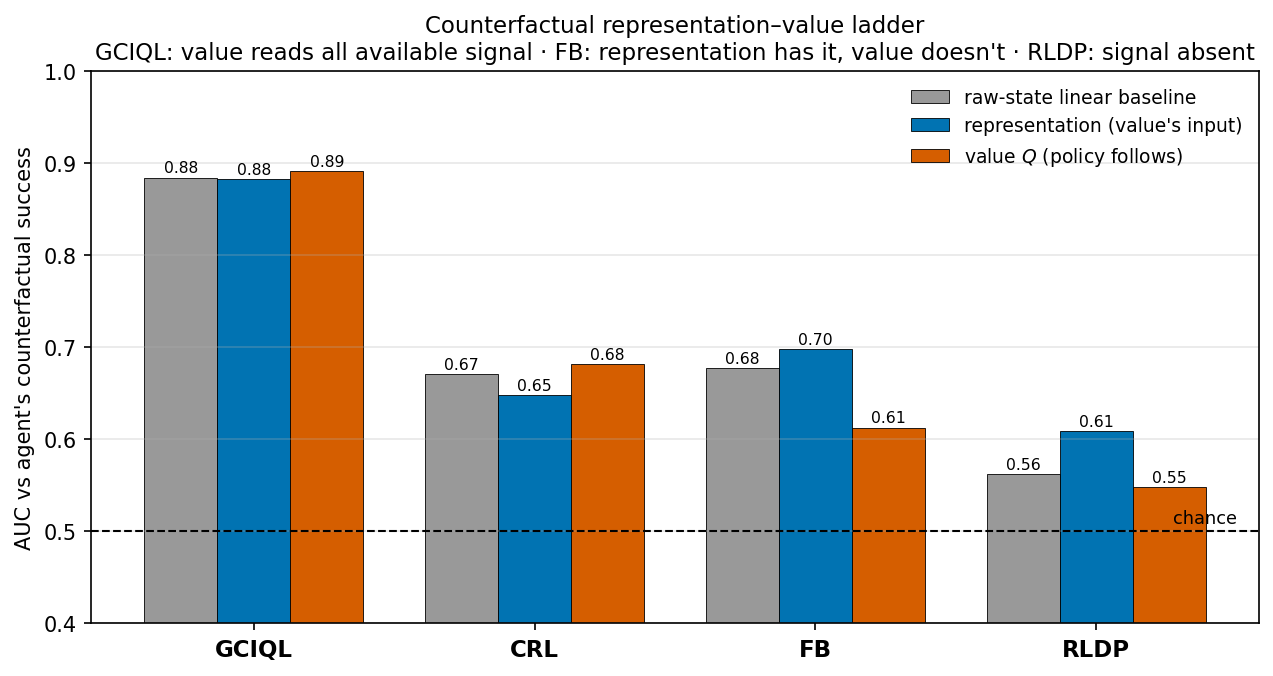
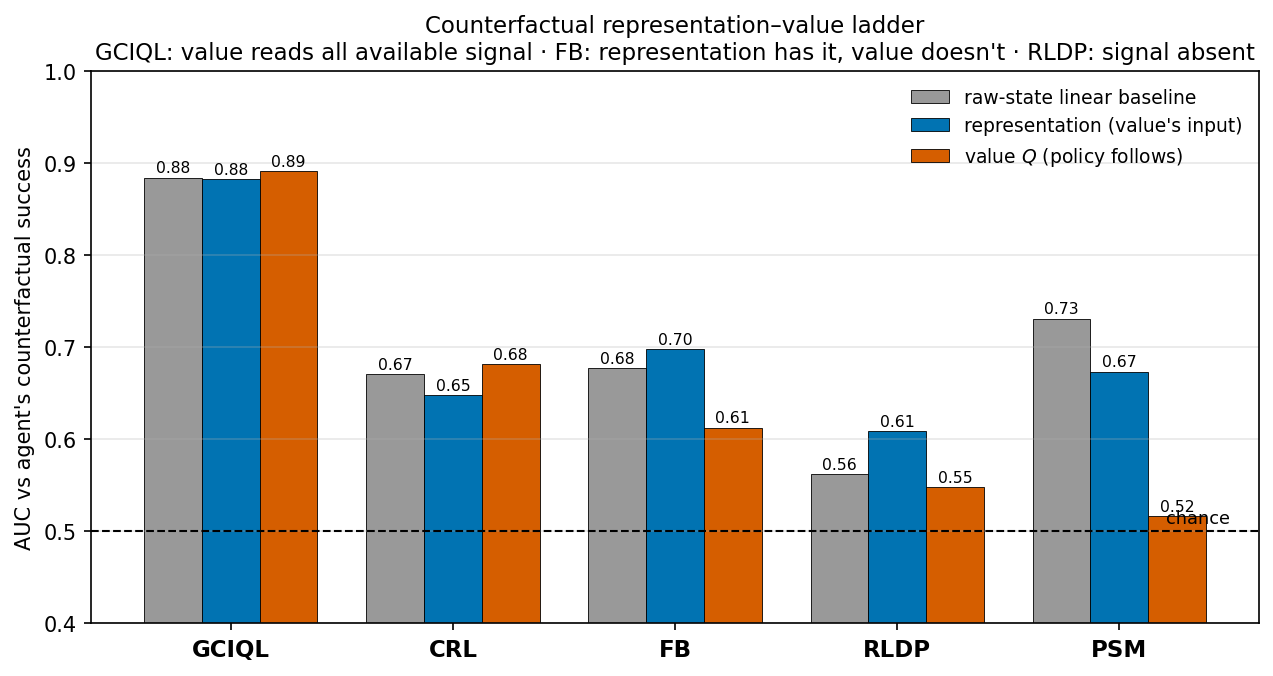
paper(rlbrew): add PSM to the counterfactual representation-value ladder
PSM was absent from fig_cf_ladder (the plot hardcoded 4 methods). Computed its
ladder from the ortho_coef=1000 (canonical) checkpoint + counterfactual records.

Result (raw / representation-readout / value-AUC): PSM 0.73 / 0.67 / 0.52.
This CORRECTED a wrong claim: an earlier draft called PSM the "sharpest readout
bottleneck" (inferred from its geometry R^2=0.90), but the ladder shows the
representation readout (0.67) does NOT exceed the raw baseline (0.73) -- PSM's
representation does not encode controllability despite resolving cube-goal
geometry best, and its value ranks near chance (0.52). Text + caption rewritten
to the geometry != controllability point.

repsep_forward_probe.py: phi/B_rep/F_rep were hardcoded to FB's
_left_encoder/backward_map/forward_map; added PSM fallbacks
(_fw_encoder/_bw_encoder/sf_psi) -- F_rep->sf_psi is the value's input rep.
plot_cf_ladder.py: METHODS += psm.

Changed region(s): [[0.1225, 0.2175, 0.9804, 0.9941]]

diff --git a/PAPER/rlbrew/content/results.tex b/PAPER/rlbrew/content/results.tex
@@ -3,17 +3,17 @@
 
 Our experiments test the interaction-state hypothesis from Section~\ref{sec:theory}.
 The evaluated methods rarely fail during approach; most performance differences arise after control has been acquired.
-We then ask whether this pattern is explained by state-space support and whether learned scores distinguish acquired-control states with different task outcomes.
+We then ask whether this pattern is explained by state-space support and whether learned values distinguish acquired-control states with different task outcomes.
 These diagnostics identify where policies fail and whether learned values preserve the interaction-state distinctions needed for control, but they are not designed to isolate a single architectural cause.
-Per-task success, exact counts, and the full diagnostic tables are in Appendix~\ref{app:tables}.
+Per-goal success, exact counts, and the full diagnostic tables are in Appendix~\ref{app:tables}.
 
 \subsection{Aggregate success obscures where policies fail}
 
 Aggregate state-based success ranks the methods but says nothing about where they fail. 
-Across $10$ evaluation seeds, the overall interquartile mean (IQM)~\citep{agarwal-neurips21a} success rates are \gciql{} ($71.8 \pm 4.1$), \fb{} ($52.0 \pm 5.5$), \psm{} ($36.7 \pm 4.5$), \crl{} ($25.8 \pm 2.3$), and \rldp{} ($22.7 \pm 6.0$).\protect\footnotemark{}
+Across $10$ evaluation seeds, the overall inter-quartile mean (IQM)~\citep{agarwal-neurips21a} success rates are \gciql{} ($71.8 \pm 4.1$), \fb{} ($52.0 \pm 5.5$), \psm{} ($36.7 \pm 4.5$), \crl{} ($25.8 \pm 2.3$), and \rldp{} ($22.7 \pm 6.0$).\protect\footnotemark{}
 \footnotetext{Aggregate success uses the stochastic evaluation policy and is summarized by IQM over seeds; the phase decomposition uses deterministic closed-loop rollouts, so per-method success differs slightly between the two analyses. We report each metric consistently within its corresponding analysis.}
 
-The rollout-stage decomposition in Section~\ref{sec:method} localizes where the methods fail (Figures~\ref{fig:funnel} and \ref{fig:outcomes}).
+The phase decomposition in Section~\ref{sec:method} localizes where the methods fail (Figures~\ref{fig:funnel} and \ref{fig:outcomes}).
 Every method almost always completes the approach phase, and most rollouts satisfy the control-acquisition criterion.
 The largest differences arise afterward, in maintain-control and transport failures.
 
@@ -27,7 +27,7 @@ Because the phase labels are computed only from simulator states, the same analy
 \centering
 \begin{minipage}[t]{0.48\linewidth}
   \centering
-  \includegraphics[width=\linewidth]{fig_funnel.png}
+  \includegraphics[width=\linewidth]{fig_funnel_new.png}
   \caption{
     \textbf{Phase survival through cube manipulation.}
     Each curve shows the fraction of deterministic evaluation rollouts that satisfy each successive phase criterion: approach, control acquisition, maintain control, and transport.
@@ -36,7 +36,7 @@ Because the phase labels are computed only from simulator states, the same analy
 \end{minipage}\hfill
 \begin{minipage}[t]{0.48\linewidth}
   \centering
-  \includegraphics[width=\linewidth]{fig_outcomes.png}
+  \includegraphics[width=\linewidth]{fig_outcomes_new.png}
   \caption{
     \textbf{Terminal outcomes under the phase decomposition.}
     Each rollout is assigned to success or to the first unmet phase criterion.
@@ -46,7 +46,7 @@ Because the phase labels are computed only from simulator states, the same analy
 \end{minipage}
 \end{figure}
 
-\subsection{Dataset support covaries with performance but cannot explain it}
+\subsection{State-support gaps covary with performance but do not explain value ranking}
 
 The support analysis groups individual states according to gripper and cube state.
 Because both the play data and policy rollouts contain repeated pick-and-place attempts, we use three state categories: \emph{approach} (pre-contact), \emph{pickup} (gripper closed, cube on the table), and \emph{carry} (cube lifted and held).
@@ -56,15 +56,18 @@ One possible explanation is that failures after control acquisition occur in reg
 Figure~\ref{fig:support} reports the difference in nearest-neighbor distance to the offline dataset between failed and successful rollout states, grouped by state category and failure phase.
 Failed states are often farther from the data in the pickup and carry categories, especially for maintain-control failures (e.g.\ \crl{} pickup, $+1.83$).
 
-These support differences track the ordering of method success. \gciql{}, the strongest method, shows essentially no gap: its failed states are as close to the data as its successful ones (all categories within $0.1$). Every lower-performing method shows a positive gap.
-Dataset support is therefore correlated with performance under this state-only metric, and we cannot rule it out as a contributing factor.
-It does not, however, explain the value-ranking failures reported below. That probe resets to in-hand states drawn \emph{from the offline data}, where support is adequate by construction, yet the lower-performing methods still rank those states near chance.
-A consistent reading is that the two are linked: a value that does not distinguish stable from unstable grasps produces actions that drive the policy into states the dataset does not cover, so the support gap is a consequence of weak value ranking rather than a competing explanation for it.
-This analysis does not rule out differences in action-conditioned support, transition support, or the availability of corrective actions in the offline data.
+These state-support gaps broadly covary with performance.
+\gciql{}, the strongest method, shows almost no gap in the plotted pickup and carry categories, whereas every lower-performing method shows positive gaps.
+However, the gaps do not reproduce the exact performance ordering among the lower-performing methods, so state support is at most a partial explanation.
+The value-ranking probe below begins from in-hand states sampled directly from the offline dataset, so the initial states are supported by construction.
+Nevertheless, several lower-performing methods still rank eventual task success near chance.
+This shows that initial-state support alone does not explain the ranking failures, but it does not rule out limited action or transition support during the subsequent rollout.
+Weak value ranking may drive a policy toward poorly supported states, limited support may degrade the learned value or policy, or both effects may occur.
+Our diagnostics do not determine the direction of causality.
 
-\subsection{Value functions weakly rank acquired-control states}
+\subsection{learned values weakly rank acquired-control states}
 
-Because dataset support cannot account for ranking failures on states drawn from the dataset itself, we next investigate whether each learned score ranks in-hand grasp states by eventual success under the method's own policy.
+Because initial-state support alone does not account for the ranking failures observed on states drawn from the dataset, we next investigate whether each learned value ranks in-hand grasp states by eventual success under the method's own policy.
 Coarse cube-to-goal geometry is not sufficient to explain performance.
 For methods with an explicit backward embedding, the embeddings learned by \psm{} and \rldp{} predict cube-to-goal distance substantially better than the embedding learned by \fb{} (nonlinear $R^2$ of $0.90$ and $0.75$ versus $0.21$).
 Nevertheless, both methods have higher maintain-control failure rates than \fb{} (Appendix~\ref{app:tables}).
@@ -77,6 +80,7 @@ From each state, we roll out the agent's own policy and label the grasp by wheth
 Each grasp is evaluated independently, and the probe covers states from the offline dataset rather than only states generated by the learned policy.
 We then plot success rate as a function of the learned value percentile.
 We summarize ranking quality using rank-AUC, the probability that a successful grasp state receives a higher value than an unsuccessful grasp state.
+Because the success labels are generated separately under each method's own policy, this probe measures whether a method's value is consistent with its own downstream outcomes rather than comparing all methods against a single shared target.
 \gciql{}'s value is strongly predictive (rank-AUC $0.89$): its top-value grasps succeed ${\approx}99\%$ of the time, its bottom-value grasps ${\approx}27\%$.
 For \rldp{} and \psm{}, the curves are nearly flat (AUC $0.52$ and $0.49$), indicating that higher values do not correspond to higher success rates.
 \fb{} shows a weaker relationship (AUC approximately $0.61$), while \crl{} is intermediate ($0.68$).
@@ -84,23 +88,24 @@ For \fb{} and \rldp{}, the learned value is therefore only weakly informative ab
 
 We next ask whether the weak ranking arises in the learned representation or in the scalar value derived from it.
 Using each agent's simulator-reset success labels, we fit a linear readout from the learned representation and compare its ranking with that of the learned value (Appendix~\ref{app:tables}, Figure~\ref{fig:cf_ladder}).
-The probe suggests different bottlenecks for \fb{} and \rldp{}.
+The probe suggests different bottlenecks for \fb{}, \rldp{}, and \psm{}.
 \fb{} is consistent with a readout bottleneck: a linear readout of its forward map reaches AUC 0.70, while its learned scalar value reaches 0.61.
 \rldp{} is consistent with a representation bottleneck: the best readout reaches only
 0.61, and its learned value reaches 0.55.
+\psm{} shows the largest collapse from the raw-state baseline to the learned value: although its backward embedding resolves cube-to-goal geometry best of any method (nonlinear $R^2$ $0.90$; Table~\ref{tab:geometry_control}), a linear readout of the representation its value uses does not exceed the raw-state baseline for counterfactual success ($0.67$ versus $0.73$), and the value itself ranks near chance ($0.52$). Resolving cube-to-goal geometry therefore does not imply that the representation encodes which grasps the policy will keep.
 For \gciql{}, the learned value preserves nearly all of the linearly decodable signal available in its value features, reaching AUC $0.89$.
 
 These probes suggest that weak ranking can arise either in the learned representation or in the scalar readout, but they do not identify the readout form as the sole cause.
-\gciql{} differs from \fb{}, \crl{}, and \rldp{} in objective, actor training, critic architecture, implicit regularization, and optimization stability, not only in its value readout.
-The evidence therefore supports a narrower conclusion: the lower-performing methods learn scores that weakly rank acquired-control states by whether the agent will maintain control and complete transport, while \gciql{} provides a stronger ranking under this diagnostic.
+\gciql{} differs from \fb{}, \crl{}, \rldp{}, and \psm{} in objective, actor training, critic architecture, implicit regularization, and optimization stability, not only in its value readout.
+The evidence therefore supports a narrower conclusion: the lower-performing methods learn values that weakly rank acquired-control states by whether the agent will maintain control and complete transport, while \gciql{} provides a stronger ranking under this diagnostic.
 A matched readout ablation would be needed to attribute the difference specifically to bilinear versus MLP value form.
 
 \begin{figure}[htbp]
 \centering
 \begin{minipage}[t]{0.48\linewidth}
   \centering
-  \includegraphics[width=\linewidth,trim={0.2cm 0.2cm 0.2cm 0.7cm},clip]{fig_support.png}
-  \caption{\textbf{Failure-success support gap.} Positive values indicate that failed rollout states are farther from the offline dataset under the nearest-neighbor metric. The gap is positive for every lower-performing method but is essentially zero for \gciql{}, the strongest method, so support covaries with performance.}
+  \includegraphics[width=\linewidth,trim={0.2cm 0.2cm 0.2cm 0.7cm},clip]{fig_support_new.png}
+  \caption{\textbf{Failure-success support gap.} Positive values indicate that failed rollout states are farther from the offline dataset under the nearest-neighbor metric. The gap is positive for every lower-performing method but is essentially zero for \gciql{}, so state-support gaps broadly covary with performance.}
   \label{fig:support}
 \end{minipage}\hfill
 \begin{minipage}[t]{0.48\linewidth}
@@ -115,6 +120,7 @@ A matched readout ablation would be needed to attribute the difference specifica
 \paragraph{Takeaway.}
 The phase decomposition changes the interpretation of state-based URL failures in cube manipulation.
 The evaluated methods usually complete approach and acquire control, but many failures occur afterward, in the maintain-control and transport phases.
-Failed pickup and carry states are farther from the offline dataset for the lower-performing methods but not for \gciql{}, so support covaries with performance; it cannot, however, explain why the learned values rank grasp states drawn from the dataset itself near chance.
-The learned scores of the lower-performing methods also do not reliably rank acquired-control states by whether the policy will maintain control and complete transport.
+Failed pickup and carry states are farther from the offline dataset for the lower-performing methods but not for \gciql{}, so state-support gaps broadly covary with performance.
+However, initial-state support alone does not explain why several learned values rank in-dataset grasp states near chance.
+The learned values of the lower-performing methods do not reliably rank acquired-control states by whether the policy will maintain control and complete transport.
 Distinguishing such states is therefore a useful target for future offline URL objectives in manipulation.

diff --git a/PAPER/rlbrew/content/appendix.tex b/PAPER/rlbrew/content/appendix.tex
@@ -1,16 +1,19 @@
 \section{Additional results}
 \label{app:tables}
 
-This appendix provides the detailed numbers behind the main-paper diagnostics: per-task success, the exact terminal-outcome distribution, the full dataset-support distances, the backward-embedding geometry probe, and the counterfactual value/representation-ranking analysis. 
-These results support the main empirical chain: scalar success hides post-acquisition failures; state-space support covaries with performance but cannot explain ranking failures on states drawn from the dataset itself; coarse cube-goal geometry is insufficient; and learned values differ in how well they rank in-hand states by the agent's own future success.
+This appendix provides the detailed numbers behind the main-paper analyses: per-goal success, the exact terminal-outcome distribution, the full
+state-support distances, the backward-embedding geometry probe, and the counterfactual value and representation-ranking analysis.
+These results support the main empirical chain: aggregate success hides post-acquisition failures; state-support gaps broadly covary with performance, while weak value ranking persists for initial states drawn from the offline dataset; coarse cube-to-goal geometry is insufficient; and learned values
+differ in how well they rank in-hand states by the agent's own eventual success.
+Throughout this subsection, \emph{value} refers to the method-specific task-conditioned scalar used to rank states or actions.
 
-\subsection{Per-task success}
+\subsection{Per-goal success}
 \label{app:pertask}
 
 \begin{table}[H]
 \centering
-\caption{State-based evaluation success by task (IQM $\pm$ half-width of the $95\%$ stratified-bootstrap CI across $10$ seeds). 
-All methods use the flow-Q learning actor with BC regularization and are evaluated at $1$M steps.}
+\caption{State-based evaluation success by held-out goal (IQM $\pm$ half-width of the $95\%$ stratified-bootstrap CI across $10$ seeds). 
+All methods use the Flow-Q learning with BC (FQL-BC) regularization~\citep{park-icml25a,bagatella-iclr26a} as the policy extraction mechanism (actor) and are evaluated at $1$M steps.}
 \label{tab:pertask}
 \begin{tabular}{lcccccc}
 \toprule
@@ -30,11 +33,11 @@ All methods use the flow-Q learning actor with BC regularization and are evaluat
 
 \begin{table}[H]
 \centering
-\caption{Cross-method terminal-outcome distribution (\% of episodes, mean across $10$ seeds; the first five columns sum to $100\%$). The post-contact share is $(\text{maintain}+\text{transport})/(100-\text{success})$.}
+\caption{Cross-method terminal-outcome distribution (\% of episodes, mean across $10$ seeds; the first five columns sum to $100\%$). The post-acquisition share is $(\text{maintain}+\text{transport})/(100-\text{success})$.}
 \label{tab:cross_method_outcomes}
 \begin{tabular}{lcccccc}
 \toprule
-\textbf{Method} & \textbf{Success} & \textbf{Approach} & \textbf{Grasp} & \textbf{Maintain} & \textbf{Transport} & \textbf{Post-contact share} \\
+\textbf{Method} & \textbf{Success} & \textbf{Approach} & \textbf{Control acquisition} & \textbf{Maintain} & \textbf{Transport} & \textbf{Post-acquisition share} \\
 \midrule
 \fb{}    & $49.4$ & $0.0$ & $8.7$  & $24.9$ & $17.0$ & $82.8\%$ \\
 \gciql{} & $73.7$ & $0.0$ & $11.9$ & $7.8$  & $6.7$  & $54.9\%$ \\
@@ -45,16 +48,18 @@ All methods use the flow-Q learning actor with BC regularization and are evaluat
 \end{tabular}
 \end{table}
 
-\subsection{Dataset-manifold support}
+\subsection{State-support analysis}
 \label{app:support}
 
 \begin{table}[H]
 \centering
-\caption{Nearest-neighbor distance $m_{\mathrm{dist}}$ from rollout states to comparable offline states (mean across seeds; larger means lower support), by per-state regime and terminal outcome. S = success, Mf = maintain-control failure, Tf = transport failure. All methods use the flow actor and are evaluated at $1$M steps under the same probe ($20$ episodes per seed, $10$ seeds). Figure~\ref{fig:support} plots the Mf$-$S and Tf$-$S deltas for the contact regimes.}
+\caption{Nearest-neighbor distance $m_{\mathrm{dist}}$ from rollout states to states in the offline dataset (mean across seeds; larger values indicate lower support), grouped by state category and terminal outcome. 
+S = success, Mf = maintain-control failure, Tf = transport failure. All methods use the FQL-BC and are evaluated at $1$M steps under the same probe ($20$ episodes per seed, $10$ seeds). 
+Figure~\ref{fig:support} plots the Mf$-$S and Tf$-$S differences for the pickup and carry categories.}
 \label{tab:state_coverage}
 \begin{tabular}{llccc}
 \toprule
-\textbf{Method} & \textbf{Regime} & \textbf{S} & \textbf{Mf} & \textbf{Tf} \\
+\textbf{Method} & \textbf{Category} & \textbf{S} & \textbf{Mf} & \textbf{Tf} \\
 \midrule
 \gciql{} & approach & $2.53$ & $2.29$ & $2.43$ \\
          & pickup   & $3.05$ & $3.00$ & $3.01$ \\
@@ -84,7 +89,7 @@ All methods use the flow-Q learning actor with BC regularization and are evaluat
 
 \begin{table}[H]
 \centering
-\caption{Carry-regime resolution of the backward embedding $B$ for cube-to-goal distance $d$, under a linear and a nonlinear (MLP) readout, with the maintain-control failure rate. This probe is restricted to methods with an explicit backward embedding. Better cube-goal geometric resolution in $B$ does not imply better post-contact control.}
+\caption{Carry-regime resolution of the backward embedding $B$ for cube-to-goal distance $d$, under a linear and a nonlinear (MLP) readout, with the maintain-control failure rate. This probe is restricted to methods with an explicit backward embedding. Better cube-to-goal geometric resolution in $B$ does not imply a lower maintain-control failure rate.}
 \label{tab:geometry_control}
 \begin{tabular}{lccc}
 \toprule
@@ -100,17 +105,18 @@ All methods use the flow-Q learning actor with BC regularization and are evaluat
 \subsection{Counterfactual value and representation ranking}
 \label{app:counterfactual_ranking}
 
-The main value-quality diagnostic uses an on-policy counterfactual label. 
-We reset the simulator to in-hand grasp states, roll out each agent's own policy, and label each state by whether that agent reaches the goal. 
-This directly tests whether the value the policy follows ranks post-acquisition states by their eventual tail outcome.
+The main value-ranking analysis uses an on-policy counterfactual label.
+We reset the simulator to in-hand grasp states, roll out each agent's own policy, and label each state by whether that agent reaches the goal.
+This directly tests whether the learned value ranks acquired-control states by eventual task success under the corresponding policy.
+Because the labels are generated separately under each method's own policy, the analysis measures consistency with each method's own downstream outcomes rather than comparison against a single shared target.
 
 \begin{table}[H]
 \centering
-\caption{On-policy counterfactual value test. We reset $200$ in-hand grasps into the simulator, roll out each agent's own policy, and report the per-task rank-AUC of the learned value against the agent's own success, averaged over goals, along with mean counterfactual success rate. This is the value-quality measure used in the main text.}
+\caption{On-policy counterfactual value test. We reset $200$ in-hand grasp states in the simulator, roll out each agent's own policy, and report the learned value's rank-AUC against the agent's own success, computed per goal and averaged across goals, together with the mean counterfactual success rate.}
 \label{tab:cf_value}
 \begin{tabular}{lcc}
 \toprule
-\textbf{Method} & \textbf{Counterfactual value-AUC} & \textbf{Counterfactual success rate} \\
+\textbf{Method} & \textbf{Counterfactual rank-AUC} & \textbf{Counterfactual success rate} \\
 \midrule
 \gciql{} & $0.89$ & $0.66$ \\
 \crl{}   & $0.68$ & $0.38$ \\
@@ -121,12 +127,13 @@ This directly tests whether the value the policy follows ranks post-acquisition 
 \end{tabular}
 \end{table}
 
-Figure~\ref{fig:cf_ladder} compares the learned value against a supervised linear readout from the representation that the value uses. 
-This asks whether the representation contains linearly accessible information about the agent's own counterfactual success, and whether the learned scalar value preserves that information in its ranking.
+Figure~\ref{fig:cf_ladder} compares the learned value with a supervised linear readout from the representation used to compute it.
+This asks whether the representation contains linearly accessible information about the agent's own counterfactual success and whether the learned value
+preserves that information in its ranking.
 
 \begin{figure}[H]
 \centering
-\includegraphics[width=0.8\linewidth]{fig_cf_ladder.png}
-\caption{Counterfactual representation--value ladder. For each method, the probe uses the agent's own counterfactual success as the label. We compare a raw-state linear baseline, the best linear readout of the representation used by the value (\gciql{} penultimate value features; \crl{} $\phi(s,\pi)$; \fb{}/\rldp{} forward map $F(s,\pi,z)$), and the learned value's own ranking. \gciql{} preserves nearly all linearly decodable signal available in its value features; \fb{} contains more signal in $F$ than is reflected in the learned scalar value; \rldp{} contains weaker signal under this probe. The raw baseline is per-agent because counterfactual success depends on each policy, so the cleanest comparison is within method.}
+\includegraphics[width=0.8\linewidth]{fig_cf_ladder_new.png}
+\caption{Counterfactual representation--value ladder. For each method, the probe uses the agent's own counterfactual success as the label. We compare a raw-state linear baseline, the best linear readout of the representation used by the scalar value (\gciql{} penultimate value features; \crl{} $\phi(s,\pi)$; \fb{}/\rldp{}/\psm{} the successor-feature map $F(s,\pi,z)$, which for \psm{} is $\psi(s,\pi,z)$), and the learned value's own ranking. \gciql{} preserves nearly all linearly decodable signal available in its value features; \fb{} contains more signal in $F$ than is reflected in the learned scalar value; \rldp{} contains weaker signal under this probe; \psm{} resolves cube-to-goal geometry best (Table~\ref{tab:geometry_control}) yet its representation readout does not exceed the raw baseline and its value ranks near chance. The raw baseline is per-agent because counterfactual success depends on each policy, so the cleanest comparison is within method.}
 \label{fig:cf_ladder}
 \end{figure}

diff --git a/scripts/probes/repsep_forward_probe.py b/scripts/probes/repsep_forward_probe.py
@@ -36,7 +36,9 @@ def phi(model, obs_np):
     import torch
     with torch.no_grad():
         t = torch.as_tensor(np.asarray(obs_np), dtype=torch.float32)
-        return model._left_encoder(model._fw_encoder(model._normalize(t))).cpu().numpy()
+        if hasattr(model, "_left_encoder"):
+            return model._left_encoder(model._fw_encoder(model._normalize(t))).cpu().numpy()
+        return model._fw_encoder(model._normalize(t)).cpu().numpy()   # PSM: no _left_encoder
 
 
 def B_rep(model, obs_np):
@@ -44,7 +46,9 @@ def B_rep(model, obs_np):
     import torch
     with torch.no_grad():
         t = torch.as_tensor(np.asarray(obs_np), dtype=torch.float32)
-        return model.backward_map(t).cpu().numpy()
+        if hasattr(model, "backward_map"):
+            return model.backward_map(t).cpu().numpy()
+        return model._bw_encoder(model._normalize(t)).cpu().numpy()   # PSM: backward-side state features
 
 
 def F_rep(model, agent, obs_np, z):
@@ -60,7 +64,10 @@ def F_rep(model, agent, obs_np, z):
         action = agent.act(obs, zb)
         if isinstance(action, np.ndarray):
             action = torch.as_tensor(action, dtype=torch.float32)
-        F = model.forward_map(obs, zb, action.to(obs.device).float())
+        if hasattr(model, "forward_map"):
+            F = model.forward_map(obs, zb, action.to(obs.device).float())
+        else:
+            F = model.sf_psi(obs, zb, action.to(obs.device).float())   # PSM: value's input rep
         if F.dim() == 3:                      # [P, B, z_dim] -> mean over heads
             F = F.mean(0)
         return F.cpu().numpy()

diff --git a/scripts/figures/plot_cf_ladder.py b/scripts/figures/plot_cf_ladder.py
@@ -26,8 +26,8 @@ OUT = REPO / "PAPER" / "rlbrew" / "figures"
 sns.set_palette("colorblind")
 _CB = sns.color_palette("colorblind").as_hex()
 RAW, REP, Q = "0.6", _CB[0], _CB[3]
-METHODS = ["gciql", "crl", "fb", "rldp"]
-LAB = {"gciql": "GCIQL", "crl": "CRL", "fb": "FB", "rldp": "RLDP"}
+METHODS = ["gciql", "crl", "fb", "rldp", "psm"]
+LAB = {"gciql": "GCIQL", "crl": "CRL", "fb": "FB", "rldp": "RLDP", "psm": "PSM"}
 
 
 def _vals(m):
